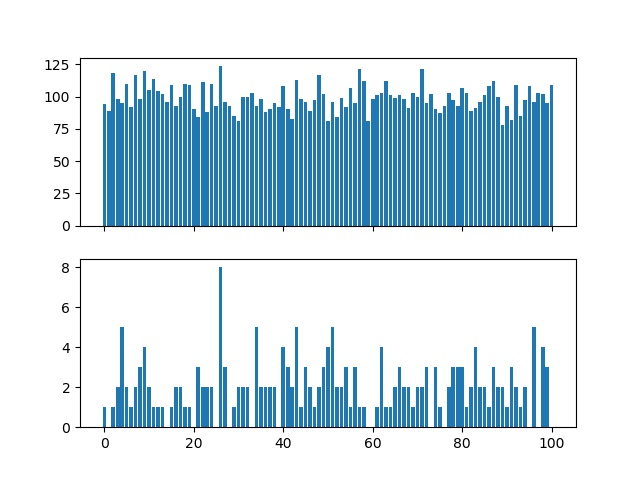
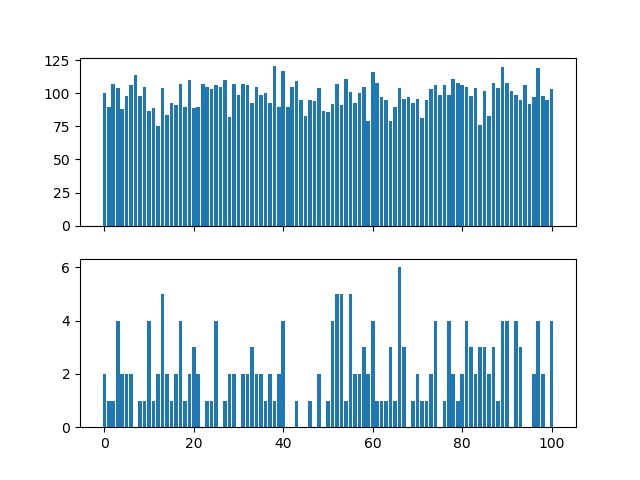
Separate random number

diff --git a/Assignment/B/k_hash.hpp b/Assignment/B/k_hash.hpp
@@ -9,63 +9,42 @@
 template<typename T>
 struct k_hash final
 {
-    k_hash(uint8_t k) : coeffs(new uint32_t[k]), a(ra(g)), k(k)
-    {
-        for (uint8_t i = 0; i < k; ++i)
-            coeffs[i] = rs(g);
-    }
-
-    ~k_hash()
-    {
-        if (coeffs)
-        {
-            delete[] coeffs;
-        }
-    }
+    k_hash(uint8_t k) : k_hash(k, p - 1) {}
 
     k_hash(k_hash const &) = delete;
-    k_hash(k_hash && o) : coeffs(o.coeffs), a(o.a), k(o.k)
-    {
-        o.coeffs = nullptr;
-    }
+    k_hash(k_hash && o) = default;
 
     k_hash & operator=(k_hash const &) = delete;
-    k_hash & operator=(k_hash && o) = delete;
+    k_hash & operator=(k_hash && o) = default;
 
     inline uint64_t operator()(T item) const
     {
         uint64_t x = basic(item), r = x % p, acc = 1, re = 0;
-        for (uint8_t i = 0; i < k; ++i)
+        for (auto c : coeffs)
         {
-            re = (re + (coeffs[i] * acc) % p) % p;
+            re = (re + (c * acc) % p) % p;
             acc = (acc * r) % p;
         }
         return (re + (a * acc) % p) % p;
     }
 private:
     static const std::hash<T> basic;
-    static inline constexpr uint64_t p = (uint64_t(1) << 31) - 1; // Mersenne prime number
-
-    static std::uniform_int_distribution<uint32_t> ra, rs;
-    static std::mt19937 g;
+    // Mersenne prime number
+    static inline constexpr uint64_t p = (uint64_t(1) << 31) - 1;
 
     friend struct k_hash_tester;
-    template<typename RA, typename RS>
-    k_hash(uint8_t k, RA ra, RS rs) : coeffs(new uint32_t[k]), a(ra(g)), k(k)
+    k_hash(uint8_t k, uint32_t max) : coeffs(k), k(k)
     {
-        for (uint8_t i = 0; i < k; ++i)
-            coeffs[i] = rs(g);
+        std::random_device rd;
+        std::mt19937 g(rd());
+        a = std::uniform_int_distribution<uint32_t>(1, max)(g);
+        for (auto & c : coeffs)
+            c = std::uniform_int_distribution<uint32_t>(0, max)(g);
     }
 
     uint8_t k;
-    uint32_t a, * coeffs;
+    uint32_t a;
+    std::vector<uint32_t> coeffs;
 };
-
-template<typename T>
-std::uniform_int_distribution<uint32_t> k_hash<T>::ra { 1, p - 1 };
-template<typename T>
-std::uniform_int_distribution<uint32_t> k_hash<T>::rs { 0, p - 1 };
-template<typename T>
-std::mt19937 k_hash<T>::g { std::random_device()() };
 
 #endif

diff --git a/Assignment/B/k_hash_test.cpp b/Assignment/B/k_hash_test.cpp
@@ -12,7 +12,7 @@ struct k_hash_tester final
 {
     void test_hash()
     {
-        k_hash<std::uint8_t> h { 32, std::uniform_int_distribution<std::uint32_t>(1, 50), std::uniform_int_distribution<std::uint32_t>(0, 50) };
+        k_hash<std::uint8_t> h(32, 50);
 
         // integer hash is trivial and perfect
         constexpr uint8_t item = 3;
